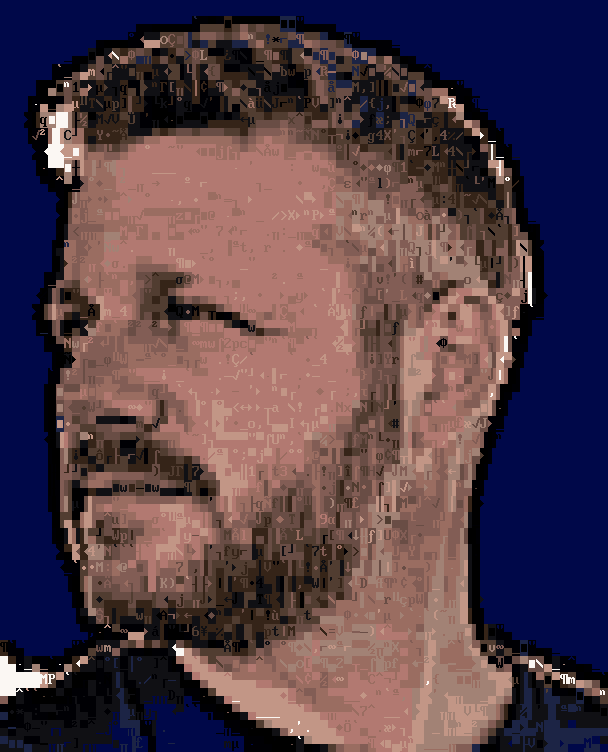
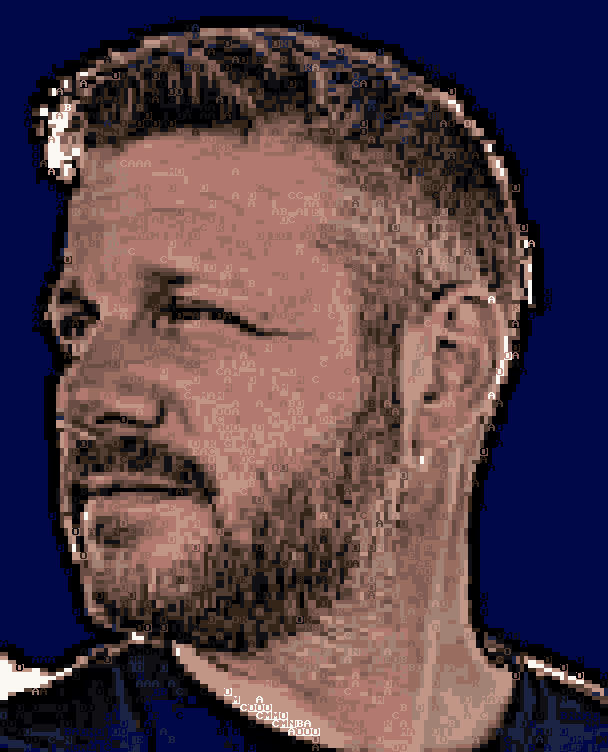
fix(about): render the portrait in 8x8, and give it a generator
The portrait read as squashed, and the aspect ratio was not why. The frame
is 608x752 against a 400x495 crop, and the subject box inside it matches
the source to about one percent - the quantiser's own
rows = h*cols*8 / (w*cell_h) was doing exactly the right thing.

The sampling was the problem. A cell is one glyph and so one sample, so at
8x16 a 76-column portrait gets 76 samples across and only 47 down. Every
feature of a face that is wide and thin - brows, eyes, mouth - is smeared
into the rows above and below it while the outline stays honest, and a
face reads as squashed long before an outline does.

8x8 is the 80x50 text mode, as real as the 8x16 one, and doubles the rows
to 94 for the same width and the same 608x752 file. design/fidelity.py
was written to compare precisely this and reached the same answer.

Also gives the file a generator. The caption has always said "converted by
the board's own quantiser", which was true and unrepeatable: the PNG was
exported from the ASCII tool by hand, and this repo's rule is that
generated assets come from a generator you edit. design/ansi-portrait.mjs
drives the real core through wasm, so the claim is now checkable.

While in the file, the build note said the board runs at 132x50 and
stopped there, which stopped being the whole truth when it gained the
80x25 mode for narrow screens.

diff --git a/shell/about/index.html b/shell/about/index.html
@@ -66,10 +66,10 @@
       <a class="brand" href="/">DBHQ//BBS</a>
       <span class="tag">the world wide web, as a bulletin board</span>
       <nav>
-        <a href="/about/" aria-current="page">About</a>
         <a href="/ascii-art-generator/">ASCII Art</a>
         <a href="https://modem.dbhq.uk/">Modem</a>
         <a href="/projects/">DBHQ</a>
+        <a href="/about/" aria-current="page">About</a>
       </nav>
     </header>
 
@@ -125,7 +125,8 @@
         machine. A small Cloudflare Worker relays page fetches, because a
         browser cannot request another site directly; it returns bytes and
         never decides how anything looks. The board runs at 132x50 in an 8x16
-        cell, which is VESA text mode 10Bh.
+        cell, which is VESA text mode 10Bh, and drops to 80x25 on a screen
+        too narrow to read that - the mode a real board actually used.
         <a href="https://github.com/dbhq-uk/bbs">The source is on GitHub</a>.
       </p>
 
@@ -144,7 +145,10 @@
             Converted by the board's own quantiser. Sixteen colours chosen for
             this picture and snapped to what a VGA card could show, with the
             full CP437 character set used as texture: look closely and the
-            hair and beard are letters.
+            hair and beard are letters. Rendered in the 8x8 cell of the 80x50
+            mode rather than the board's own 8x16: a cell is one glyph and so
+            one sample, and at 8x16 a face gets two-thirds as many samples
+            down as across, which smears every feature that is wide and thin.
           </figcaption>
         </figure>
         <div class="who">

diff --git a/shell/ascii-art-generator/index.html b/shell/ascii-art-generator/index.html
@@ -90,10 +90,10 @@
       <a class="brand" href="/">DBHQ//BBS</a>
       <span class="tag">the world wide web, as a bulletin board</span>
       <nav>
-        <a href="/about/">About</a>
         <a href="/ascii-art-generator/" aria-current="page">ASCII Art</a>
         <a href="https://modem.dbhq.uk/">Modem</a>
         <a href="/projects/">DBHQ</a>
+        <a href="/about/">About</a>
       </nav>
     </header>
 

diff --git a/shell/projects/index.html b/shell/projects/index.html
@@ -66,10 +66,10 @@
       <a class="brand" href="/">DBHQ//BBS</a>
       <span class="tag">the world wide web, as a bulletin board</span>
       <nav>
-        <a href="/about/">About</a>
         <a href="/ascii-art-generator/">ASCII Art</a>
         <a href="https://modem.dbhq.uk/">Modem</a>
         <a href="/projects/" aria-current="page">DBHQ</a>
+        <a href="/about/">About</a>
       </nav>
     </header>
 

diff --git a/shell/index.html b/shell/index.html
@@ -77,10 +77,10 @@
       <a class="brand" href="/">DBHQ//BBS</a>
       <span class="tag">the world wide web, as a bulletin board</span>
       <nav>
-        <a href="/about/">About</a>
         <a href="/ascii-art-generator/">ASCII Art</a>
         <a href="https://modem.dbhq.uk/">Modem</a>
         <a href="/projects/">DBHQ</a>
+        <a href="/about/">About</a>
       </nav>
     </header>
 
